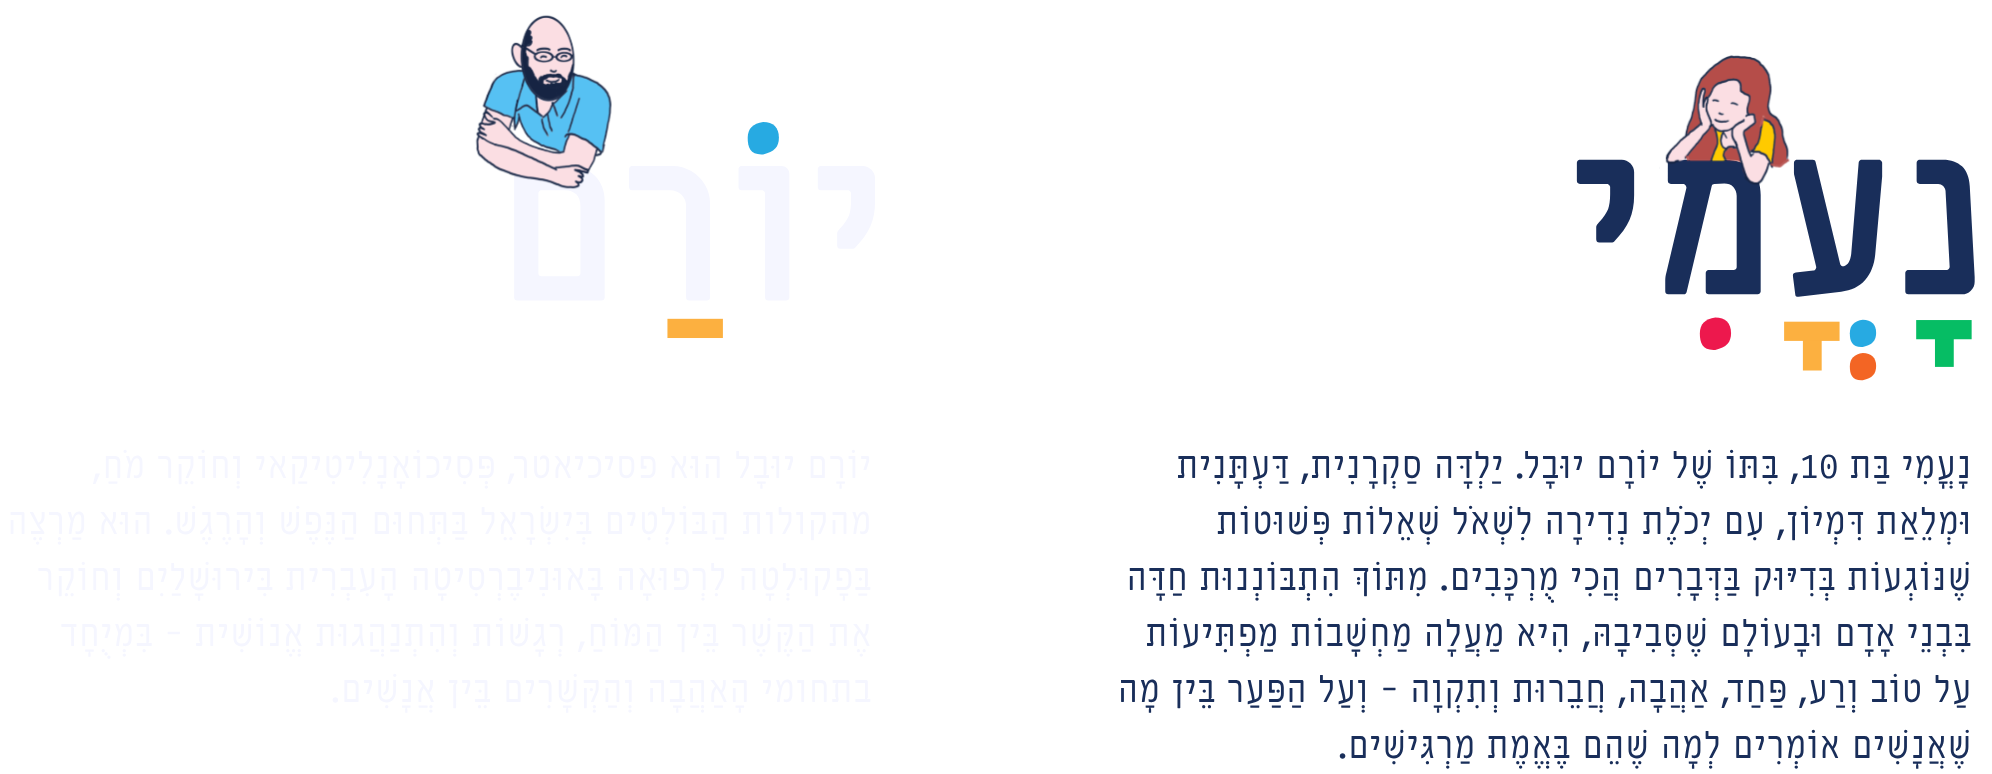
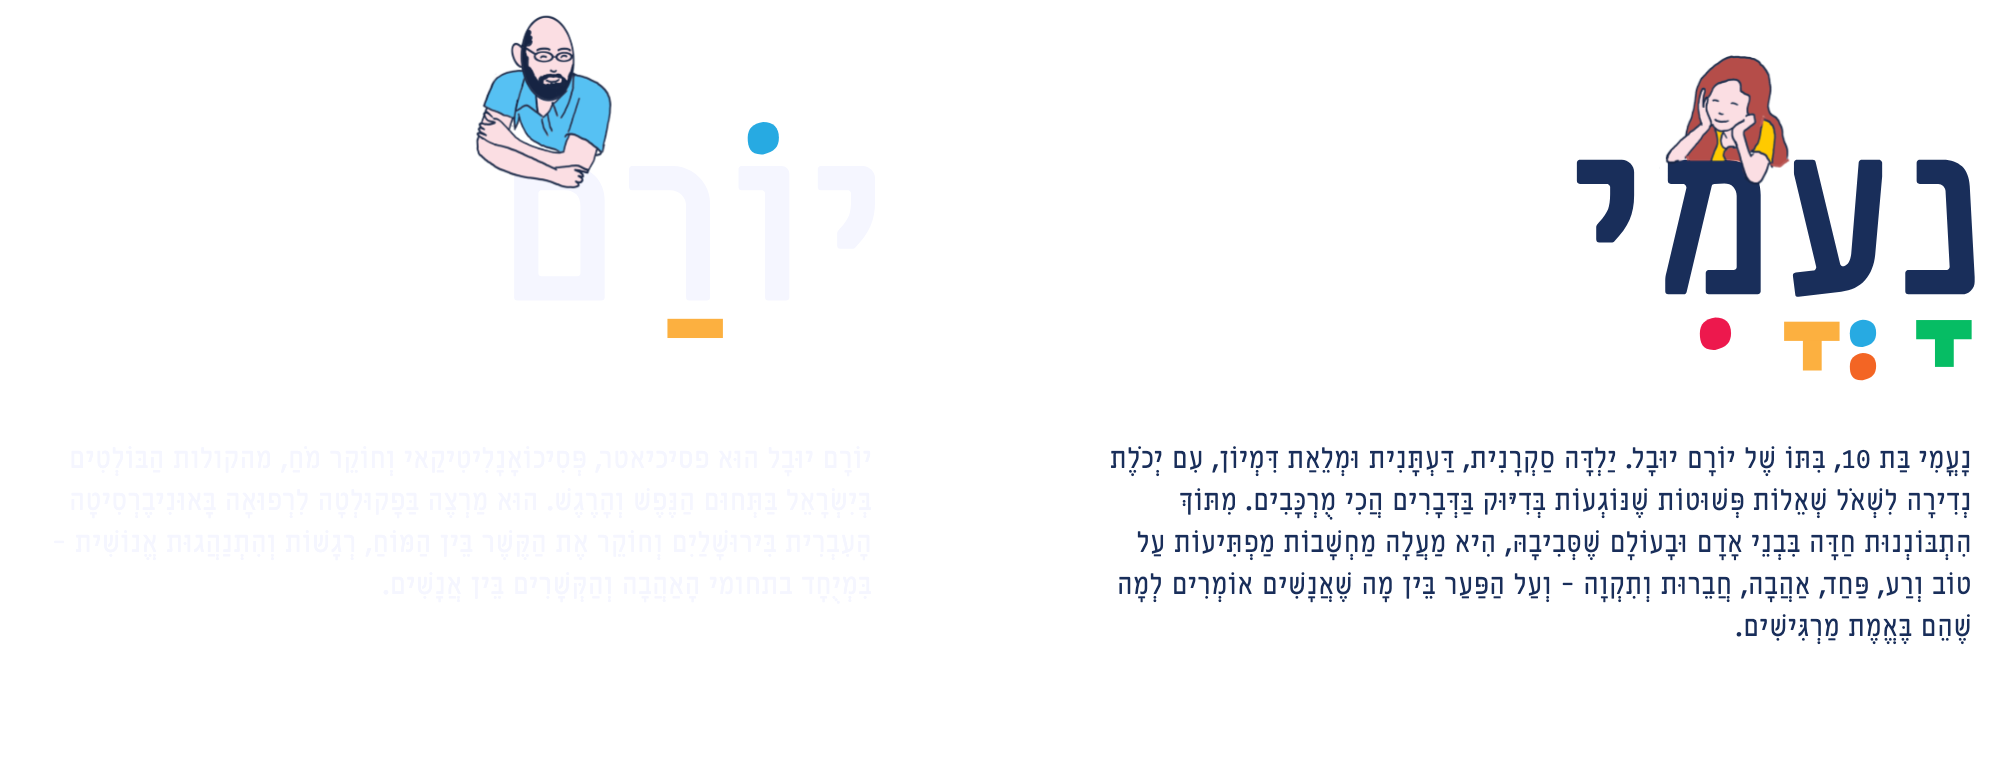
Home: "scroll down", the big text as the Figma shape (higher, a fixed space above it), a smaller tail with random sizes; Lets Talk: the Hebrew texts at 16px

Changed region(s): [[0.5602, 0.5581, 0.996, 0.8372], [0.5602, 0.8682, 0.996, 0.9922]]

diff --git a/styles.css b/styles.css
@@ -106,7 +106,7 @@
   --about-fact-scroll: 40vh;               /* how much scrolling moves to the next fact */
 
   /* Project pages (like "project page- trac"), also in Figma pixels × --u */
-  --home-intro-size: calc(67 * var(--u)); /* home: the big text across both halves */
+  --scroll-down-size: calc(20 * var(--u)); /* home: "scroll down" at the bottom of the first screen */
   --project-handwriting-size: calc(42.75 * var(--u)); /* "More stuff" and "Yael Lenga": 5% smaller than in Figma (45) */
   --project-name-size: calc(40 * var(--u));
   --project-header-size: calc(30 * var(--u));
@@ -184,7 +184,10 @@
   --scroll-hint-delay: 0.6s;           /* ...after waiting this long once the page has loaded */
   --home-return-peek: 0.12;            /* home, back from a project: opens this share of a screen past it, showing the next project */
   --cool-stuff-underline-time: 0.4s;   /* home: the underline under "Cool stuff by" fades in this fast after the bounce */
-  --mouse-trail-size: 0.285;           /* home: the photos in the mouse's tail, this share of the old changing photos' size (30%, then 5% smaller) */
+  --mouse-trail-size: 0.27075;         /* home: the photos in the mouse's tail, this share of the old changing photos' size (30%, then 5% smaller, then 5% smaller again) */
+  --mouse-trail-smaller: 0.9;          /* home: now and then a photo is this much of that size (10% smaller)... */
+  --mouse-trail-smallest: 0.85;        /* ...and now and then this much (15% smaller), at random, for a range of sizes */
+  --mouse-trail-smaller-chance: 0.2;   /* the chance of each of the two smaller sizes (the rest are the full size) */
   --mouse-trail-overlap: 0.25;         /* home: each photo in the tail covers this share of the one before */
   --mouse-trail-stay-time: 1.7s;        /* home: each photo stays this long... */
   --mouse-trail-fade-time: 0.4s;       /* ...and then fades away this fast */
@@ -445,6 +448,17 @@ body {
 }
 .hint-done .cool-stuff { text-decoration-color: currentColor; }
 
+/* "scroll down": small handwriting at the bottom of the first screen, across the middle
+   ("scroll" ends at the left half's edge, "down" starts just after it, in the right half) */
+.scroll-down {
+  --from-bottom: 43;
+  font-size: var(--scroll-down-size);
+  color: var(--color-white);
+  white-space: nowrap;
+}
+.scroll-down-left  { --x: 672; --width: 48; }
+.scroll-down-right { --x: 5;   --width: 53; }
+
 .home-name {
   --x: 20; --y: 25; --width: 265;
   color: var(--color-white);
@@ -469,19 +483,12 @@ body {
 /* Home, first view: the big white text across both halves, at the bottom of the screen.
    The same text sits in both screens at the same spot (from 58 on the whole page);
    each screen shows only its own half. */
-.home-intro {
-  --width: 1300; --from-bottom: 263.24; /* its top: 700.76 from the top of a 964 screen (the capitals start at 717.5) */
-  font-family: var(--font-label);
-  font-weight: 700;
-  font-size: var(--home-intro-size);
-  line-height: 1.11;
-  letter-spacing: 0.04em;               /* 2.68 at 67 */
-  text-transform: uppercase;
-  white-space: nowrap;
-  color: var(--color-white);
-}
-.home-intro-left  { --x: 58; }
-.home-intro-right { --x: -662; }        /* 58 - 720: starts in the left half */
+/* The big all-caps text across both halves of the first screen: a shape from Figma (its letters
+   are drawn, not typed), cut in two: the left part in the left half, the right part in the right half.
+   Pinned to the bottom of the screen, like "scroll down" under it, so the space between them never changes. */
+.home-intro-left  { --x: 162.261; --from-bottom: 284;     --width: 553.557; --height: 163.731; }
+.home-intro-right { --x: -2.593;  --from-bottom: 281.488; --width: 520.593; --height: 161.561; } /* 717.407 - 720 */
+.home-intro-right-in-left { --x: 717.407; } /* in the left half: only the sliver before the middle shows */
 
 /* Project labels on the right column: name, type, year (pinned to the bottom) */
 .project-label,
@@ -1032,7 +1039,8 @@ body:has(.has-project-cursor a:hover) .project-cursor { display: none; }
 
 .lets-talk-box-yoram { --x: 0;   --y: 788.5; --width: 540; --height: 419; background-color: var(--color-lets-talk-navy); }
 .lets-talk-box-naomi { --x: 540; --y: 788.5; --width: 540; --height: 419; background-color: var(--color-lets-talk-light); }
-/* Their names, drawings and texts (one picture over both boxes: the fonts are not on the web) */
+/* Their names, drawings and texts (one picture over both boxes: the fonts are not on the web).
+   The texts in it are 16px (smaller than in Figma), in the same widths. */
 .lets-talk-hosts     { --x: 47;  --y: 792.5; --width: 996; --height: 387; }
 
 .lets-talk-phone-1   { --x: 39;  --y: 1261.5; --width: 164.871; --height: 346.228; }

diff --git a/mouse-trail.js b/mouse-trail.js
@@ -4,6 +4,8 @@
 // it has moved far enough that the new photo covers only --mouse-trail-overlap of the one before.
 // The photos come one after the other (1, 2, 3, 4, 1, 2…). Each stays --mouse-trail-stay-time,
 // then fades away (--mouse-trail-fade-time). Their size: --mouse-trail-size of the old changing photos.
+// On the home page, now and then a photo comes out a bit smaller, at random (10% or 15% smaller:
+// --mouse-trail-smaller, --mouse-trail-smallest), so the tail has a range of sizes.
 // Only with a real mouse (not on touch screens), and not for people who asked for less motion.
 
 (function () {
@@ -24,6 +26,7 @@
     // at their width in the old changing photos, shrunk to --mouse-trail-size
     home: {
       size: parseFloat(rootStyle.getPropertyValue('--mouse-trail-size')),
+      varySizes: true,
       photos: [
         { src: 'images/home-trail-1.png', width: 621.9,  ratio: 1382 / 1595 },
         { src: 'images/home-trail-2.png', width: 630.45, ratio: 1401 / 1118 },
@@ -45,7 +48,20 @@
   const overlap = parseFloat(rootStyle.getPropertyValue('--mouse-trail-overlap')); // share that overlaps
   const stayTime = parseFloat(rootStyle.getPropertyValue('--mouse-trail-stay-time')) * 1000;
 
+  // Now and then a smaller photo: the size of the next photo, as a share of the full size
+  const smaller = parseFloat(rootStyle.getPropertyValue('--mouse-trail-smaller'));
+  const smallest = parseFloat(rootStyle.getPropertyValue('--mouse-trail-smallest'));
+  const smallerChance = parseFloat(rootStyle.getPropertyValue('--mouse-trail-smaller-chance'));
+  function pickShare() {
+    if (!tail.varySizes) return 1;
+    const roll = Math.random();
+    if (roll < smallerChance) return smallest;          // 15% smaller
+    if (roll < smallerChance * 2) return smaller;       // 10% smaller
+    return 1;                                           // the full size
+  }
+
   let next = 0;       // which photo comes next
+  let nextShare = pickShare(); // how big the next photo is (chosen once, when the photo before it is left)
   let last = null;    // where the last photo was left: { x, y, width, height }
 
   // Load the photos ahead of time, so they show at once
@@ -54,7 +70,7 @@
   // The size of the next photo on the screen
   function nextSize() {
     const unit = window.innerWidth / 1440; // 1 Figma pixel
-    const width = photos[next].width * size * unit;
+    const width = photos[next].width * size * nextShare * unit;
     return { width, height: width / photos[next].ratio };
   }
 
@@ -84,6 +100,7 @@
 
     last = { x, y, width, height };
     next = (next + 1) % photos.length;
+    nextShare = pickShare();
   }
 
   // How long a photo is in the direction (dx, dy): its width when moving sideways,

diff --git a/index.html b/index.html
@@ -35,10 +35,16 @@
         <div class="mouse-trail" aria-hidden="true"></div>
         <p class="placed handwriting cool-stuff" aria-hidden="true">Cool stuff by</p>
 
-        <!-- The big text. It runs across both halves of the screen:
-             this is its left part; the right part is in the right column's Screen 4, at the same spot.
-             Each screen hides what reaches past its edge. -->
-        <p class="placed pin-bottom home-intro home-intro-left">A graphic &amp; UX/UI designer,<br>who loves solving creative puzzles &amp;<br>making complexity feel effortless</p>
+        <!-- The big text (a shape from Figma). It runs across both halves of the screen:
+             this is its left part; the right part is in the right column's Screen 4. -->
+        <img class="placed box pin-bottom home-intro-left" src="images/home-intro-left.svg" alt="A graphic &amp; UX/UI designer, who loves solving creative puzzles &amp; making complexity feel effortless">
+        <!-- The right part too, starting just before the middle: the C of "creative" begins 2.6 pixels
+             left of the middle, so that sliver of it shows here (the rest is hidden past the edge) -->
+        <img class="placed box pin-bottom home-intro-right home-intro-right-in-left" src="images/home-intro-right.svg" alt="">
+
+        <!-- "scroll down" at the bottom, across the middle: "scroll" here, "down" in the right half.
+             It and the big text are both pinned to the bottom, so the space between them stays the same. -->
+        <p class="placed pin-bottom handwriting scroll-down scroll-down-left">scroll</p>
       </section>
 
       <!-- Screen 2 · trac. (headline and the app on a phone) — opens the trac. page -->
@@ -96,8 +102,10 @@
         <!-- The tail of photos behind the mouse: its right half (under the text and the button) -->
         <div class="mouse-trail" aria-hidden="true"></div>
 
-        <!-- The right part of the big text (the same words; screen readers read it once, on the left) -->
-        <p class="placed pin-bottom home-intro home-intro-right" aria-hidden="true">A graphic &amp; UX/UI designer,<br>who loves solving creative puzzles &amp;<br>making complexity feel effortless</p>
+        <!-- The right part of the big text (screen readers read it once, on the left) -->
+        <img class="placed box pin-bottom home-intro-right" src="images/home-intro-right.svg" alt="">
+
+        <p class="placed pin-bottom handwriting scroll-down scroll-down-right" aria-hidden="true">down</p>
 
         <p class="placed handwriting home-name">
           <a class="handwriting-link" href="about.html">Yael Lenga</a>

diff --git a/styleguide.html b/styleguide.html
@@ -53,6 +53,8 @@
         <p class="project-bold-text">Home page</p>
         <p class="project-text">.handwriting</p>
         <p class="handwriting">Cool stuff by</p>
+        <p class="project-text">.scroll-down — "scroll" and "down" at the bottom of the first screen, across the middle</p>
+        <div class="guide-dark"><p class="handwriting scroll-down">scroll down</p></div>
         <p class="project-text">.project-label</p>
         <div class="guide-dark"><p class="project-label">trac.<br>ux\ui<br>app design</p></div>
         <p class="project-text">.project-year</p>
